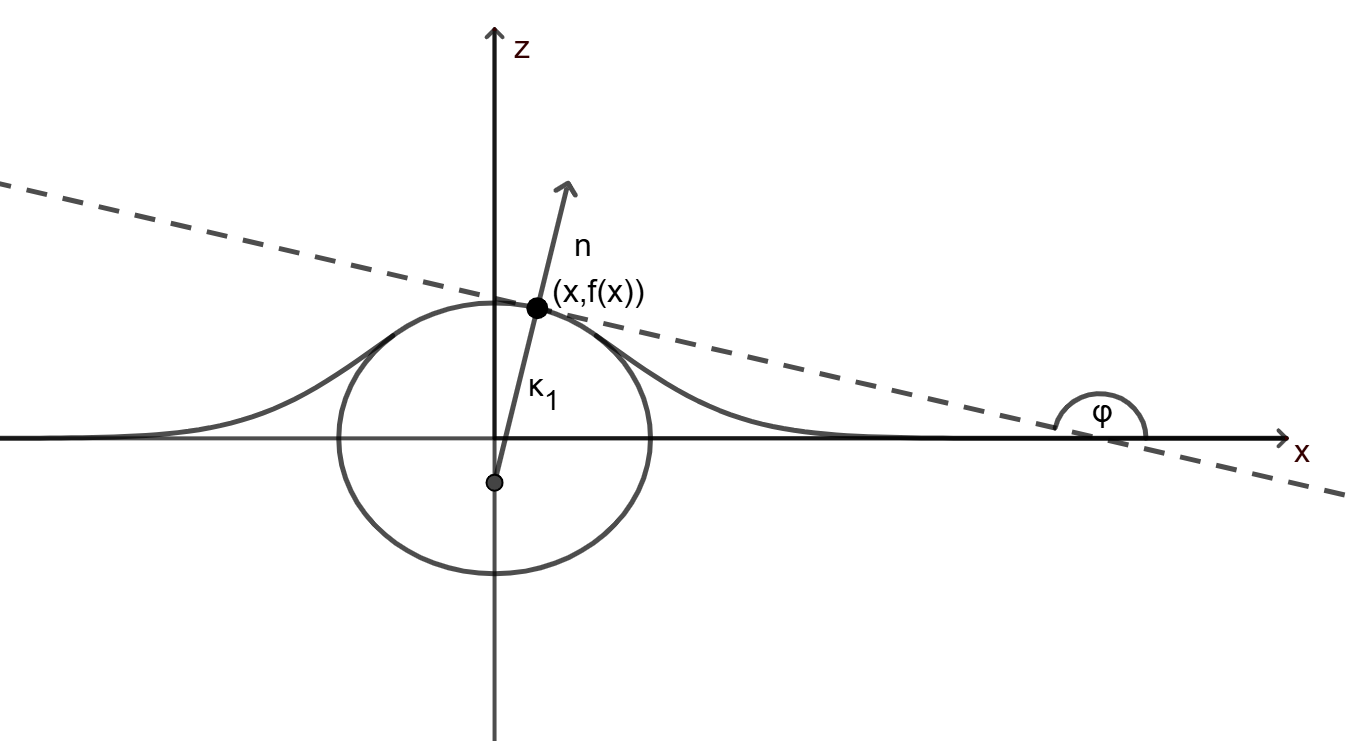
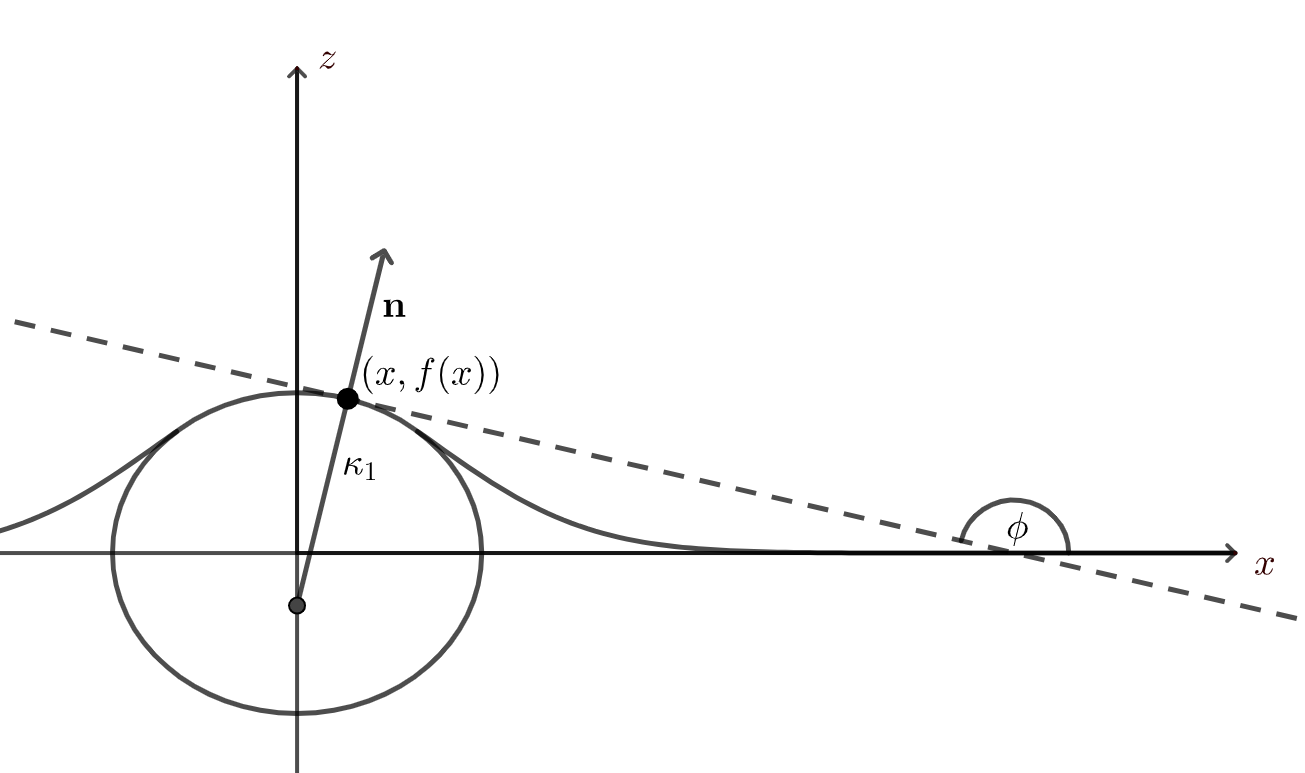
Updates from Overleaf

diff --git a/WriteUp/Initial conditions.tex b/WriteUp/Initial conditions.tex
@@ -11,17 +11,17 @@ We need to determine the initial shape of a bubble floating at a gas-liquid inte
 
 We are considering the case where the fluid is stationary, i.e. $\bf{u} = \bf{0}$, meaning on the boundaries we only need to consider the Young-Laplace equation:
 \begin{align}
-    \Delta p=-\gamma \nabla \cdot \hat n
+    \Delta p=-\gamma \nabla \cdot \hat n.
 \end{align}
 
 \begin{figure}
     \centering
     \includegraphics[width=0.7\linewidth]{WriteUp/images/bubble at surface.png}
-    \caption{A bubble floating at a surface. Portion (A) in green is the portion of the bubble which is submerged in the liquid. Portion (B) in purple is the spherical cap of the bubble, where the sphere has radius $R_0$. Portion (C) in red is the meniscus of the bubble. All three portions meet at a point.}
+    \caption{A bubble floating at a surface. Segment (A) in green is the Segment of the bubble which is submerged in the liquid. Segment (B) in purple is the spherical cap of the bubble, where the sphere has radius $R_0$. Segment (C) in red is the meniscus of the bubble. All three segments meet at a point.}
     \label{fig:2}
 \end{figure}
 
-We can divide the surface of a bubble into three regions: (A) the submerged portion of the interface, (B) the thin film over the top of the bubble separating the two gas regions, (C) the regions of the interface trailing away from the border of the thin film. We neglect the thickness of the film means we can ignore the weight of the film. Adding that the difference between the gas pressures inside and out of the bubble is uniform, the thin film can be treated as a spherical surface of radius $R_0$. The force balance equations at any point on these surfaces are,
+We can divide the surface of a bubble into three regions: (A) the submerged segment of the interface, (B) the thin film over the top of the bubble separating the two gas regions, (C) the regions of the interface trailing away from the border of the thin film. We neglect the thickness of the film meaning we can ignore the weight of the film. Adding that the difference between the gas pressures inside and out of the bubble is uniform, the thin film can be treated as a spherical surface of radius $R_0$. The force balance equations at any point on these surfaces are,
 \begin{align}\label{A_untransformed}
     (\rho-\rho')gz = \gamma \left( \frac{1}{R_1}+\frac{1}{R_2}-\frac{4}{R_0} \right)
 \end{align}
@@ -31,14 +31,12 @@ for region (A),
 \end{align}
 for region (B),
 \begin{align}\label{C_untransformed}
-    (\rho-\rho')gz = \gamma(\frac{1}{R_1}+\frac{1}{R_2})
+    (\rho-\rho')gz = \gamma \left(\frac{1}{R_1}+\frac{1}{R_2} \right)
 \end{align}
-for region (C) where $\gamma$ represents surface tension of the liquid, $g$ is acceleration due to gravity, $\rho$ and $\rho'$ are the densities of the liquid and gas respectively, $p$ and $p_0$ are the gas pressure inside and outside the bubble respectively, $g$ is acceleration due to gravity and $z$ is the height above the still gas liquid interface in the far field. $R_1$ and $R_2$ are the principle radii of curvature of the surface at a point.
-
-In order to calculate what $R_1$ and $R_2$ are we need to use some differential geometry. We assume the bubble can be described by a surfaces of revolution.
+for region (C) where $\gamma$ represents surface tension of the liquid, $g$ is acceleration due to gravity, $\rho$ and $\rho'$ are the densities of the liquid and gas respectively, $p$ and $p_0$ are the gas pressure inside and outside the bubble respectively, $g$ is acceleration due to gravity and $z$ is the height above the still gas liquid interface in the far field. $R_1$ and $R_2$ are the principle radii of curvature of the surface at a point. In order to calculate what $R_1$ and $R_2$ are we need to use some differential geometry. We assume the bubble can be described by a surfaces of revolution.
 Let $\Gamma$ be a curve that lies in the plane $(x,z)$ and let its equation have the equation $z=f(x)$. We then denote $\Phi$ as the surface defined by a rotation of $\Gamma$ around the $z$-axis or axis of rotation. This surface can then be written in the form:
 \begin{align}
-    z=f(\sqrt{x^2+y^2})=f(r) && r=\sqrt{x^2+y^2}
+    z=f(\sqrt{x^2+y^2})=f(r), && r=\sqrt{x^2+y^2}.
 \end{align}
 
 Then using the formulas derived in \cite{toponogov2006differential} we get
@@ -47,7 +45,7 @@ Then using the formulas derived in \cite{toponogov2006differential} we get
 \end{align}
 for the coefficients of the first fundamental form given by
 \begin{align}
-    I( \vec{ \boldsymbol\lambda}) = E(\lambda_1)^2 +2F\lambda_1 \lambda_2 + G(\lambda_2)^2
+    I( \vec{ \boldsymbol\lambda}) = E(\lambda_1)^2 +2F\lambda_1 \lambda_2 + G(\lambda_2)^2,
 \end{align}
 where $\lambda$ is some tangent vector. We can exploit the fact that since our surface is radially symmetric, we only need to find these geometric characteristics on some meridian of the surface, say y=0:
 \begin{align}
@@ -55,7 +53,7 @@ where $\lambda$ is some tangent vector. We can exploit the fact that since our s
 \end{align}
 Again using the formulas in \cite{toponogov2006differential}, we obtain
 \begin{align}
-    L&=\frac{f''}{\sqrt{1+(f')^2}},&M&=0&  N&=\frac{f'}{x\sqrt{1+(f')^2}}
+    L&=\frac{f''}{\sqrt{1+(f')^2}},&M&=0,&  N&=\frac{f'}{x\sqrt{1+(f')^2}},
 \end{align}
 for the coefficients of the second fundamental form given by
 \begin{align}
@@ -67,21 +65,21 @@ We then obtain the principle curvatures $\kappa_1$ and $\kappa_2$ satisfy:
 \end{align}
 Substituting in our coefficients for the first and second fundamental forms, solving for $\kappa$ and noting radius of curvature is one over the curvature we obtain:
 \begin{align}
-    \frac{1}{R_1} =\kappa_1= \frac{L}{E}=\frac{f''}{(1+(f')^2)^{\frac{3}{2}}}, && \frac{1}{R_2} = \kappa_2 = \frac{N}{G} = \frac{f'}{x \sqrt{1+(f')^2}}
+    \frac{1}{R_1} =\kappa_1= \frac{L}{E}=\frac{f''}{(1+(f')^2)^{\frac{3}{2}}}, && \frac{1}{R_2} = \kappa_2 = \frac{N}{G} = \frac{f'}{x \sqrt{1+(f')^2}}.
 \end{align}
 Notice that $R_1$ is exactly the radius of curvature of the meridian curve $\Gamma$
 We now introduce the variable $\phi$ defined to be the angle at which the tangent to $\Gamma$ makes with the x-axis. 
 \begin{figure}
     \centering
-    \includegraphics[width=0.55\linewidth]{WriteUp/images/tangent to bubble extra.png}
+    \includegraphics[width=0.75\linewidth]{WriteUp/images/tangent to bubble extra.png}
     \caption{A bubble floating at a surface with a tangent line at a point. This tangent intersects the $x$-axis with angle $\phi$}
     \label{fig:3}
 \end{figure}
 We can calculate $\phi$ using simple trigonometry to be $\phi=\arctan(f'(x))$. We then consider:
 \begin{align}
-    f'(x)=\tan \phi &= \frac{\sin\phi}{\cos\phi} \\
-    &=\sin\phi\sec\phi \\
-    &=\sin\phi \sqrt{1+\tan^2\phi}\\
+    f'(x)=\tan \phi &= \frac{\sin\phi}{\cos\phi} 
+    =\sin\phi\sec\phi 
+    =\sin\phi \sqrt{1+\tan^2\phi}\\
     \frac{f'(x)}{\sqrt{1+f'(x)^2}}&=\sin\phi\\
     \frac{d}{dx} \frac{f'(x)}{\sqrt{1+f'(x)^2}}&=\frac{d}{dx}\sin\phi \\
     \frac{f''(x)}{(1+f'(x)^2)^{\frac{3}{2}}}&=\frac{d(\sin\phi)}{dx} \\
@@ -98,8 +96,8 @@ We can write the curvature in terms of $z$:
 Now we can consider,
 \begin{align}
     f'(x)=\frac{1}{g'(f(x))}=\tan \phi &= \frac{\sin\phi}{\cos\phi} \\
-    g'(z)&=\cos\phi\csc\phi \\
-    &=\sin\phi \sqrt{1+\cot^2\phi}\\
+    g'(z)&=\cos\phi\csc\phi
+    =\sin\phi \sqrt{1+\cot^2\phi}\\
     \frac{g'(z)}{\sqrt{1+g'(z)^2}}&=\cos\phi\\
     \frac{d}{dz} \frac{f'(z)}{\sqrt{1+f'(z)^2}}&=\frac{d}{dz}\cos\phi \\
     \frac{g''(z)}{(1+g'(z)^2)^{\frac{3}{2}}}&=\frac{d(\cos\phi)}{dx} \\
@@ -126,7 +124,7 @@ Combining these all together we obtain
 \end{align}
 \begin{figure}
     \centering
-    \includegraphics[width=0.6\linewidth]{WriteUp/images/angles and trig.png}
+    \includegraphics[width=0.75\linewidth]{WriteUp/images/angles and trig.png}
     \caption{A bubble floating at a surface. Both a tangent line and a line normal to the curve are shown at a point. The distance along the normal between the point and the $z$-axis is given by $R$}
     \label{fig:4}
 \end{figure}
@@ -142,19 +140,15 @@ We then consider two new transformed coordinates:
 \begin{align}
     \bar{z}_1 = \bar{z}+\bar{h}, && \bar{z}_2=\bar{z}+\bar{l}
 \end{align}
-where $\bar{h}$ and $\bar{l}$ are chosen such that $\bar{z}_1$ has its origin at the deepest point of the bubble for portion (A) and $\bar{z}_2$ has its origin at the centre of the sphere for portion (B). For portion (A), instead of \ref{A_untransformed}, we obtain
+where $\bar{h}$ and $\bar{l}$ are chosen such that $\bar{z}_1$ has its origin at the deepest point of the bubble for segment (A) and $\bar{z}_2$ has its origin at the centre of the sphere for segment (B). For segment (A), instead of \ref{A_untransformed}, we obtain
 \begin{align}\label{less than}
-\begin{rcases}   
-    \frac{d\bar{z}_1}{d\bar{x}} &= \tan \phi \\
+    \frac{d\bar{z}_1}{d\bar{x}} &= \tan \phi &
     \frac{d(\sin\phi)}{d\bar{x}} &= 2\bar{z}_1 - \frac{\sin\phi}{\bar{x}} + \theta
-\end{rcases} 
 \end{align}
 or,
 \begin{align}\label{greater than}
-\begin{rcases}
-    \frac{d\bar{x}}{d\bar{z}_1} &= \cot \phi \\
+    \frac{d\bar{x}}{d\bar{z}_1} &= \cot \phi & 
     \frac{d(\cos\phi)}{d\bar{z}_1} &= -2\bar{z}_1 + \frac{\sin\phi}{\bar{x}} - \theta
-\end{rcases}
 \end{align}
 where,
 \begin{align}
@@ -162,30 +156,30 @@ where,
 \end{align}
 and the equations \ref{less than} and \ref{greater than} are used for $\tan\phi <1$ and $\tan\phi >1$ respectively. Similarly for portion (C), equation \ref{C_untransformed} becomes,
 \begin{align}\label{C_transformed}
-\begin{rcases}   
-    \frac{d\bar{z}}{d\bar{x}} &= \tan \phi \\
+    \frac{d\bar{z}}{d\bar{x}} &= \tan \phi &
     \frac{d(\sin\phi)}{d\bar{x}} &= 2\bar{z} - \frac{\sin\phi}{\bar{x}}
-\end{rcases} 
 \end{align}
-We can notice that equation \ref{less than} and \ref{greater than} are essentially the same of equation \ref{C_transformed} except for the additional $\theta$ term. Finally equation \ref{B_untransformed} for portion (B) becomes
+We can notice that equation \ref{less than} and \ref{greater than} are essentially the same of equation \ref{C_transformed} except for the additional $\theta$ term. Finally equation \ref{B_untransformed} for segment (B) becomes
 \begin{align}\label{Eq_B}
     \bar{z}_2 = \sqrt{ \bar{R}_0^2+\bar{x}^2}
 \end{align}
 We are now ready to start solving for the initial condition.
 
-\subsection{Solving Portion (A)}
+\subsection{Solving for Segment (A)}
 
-We have derived the governing equations for each of the three portions of the bubble and now can start to solve them. We already have an explicit expression for portion (B), although finding analytic solutions to \ref{less than}, \ref{greater than} and \ref{C_transformed} is too difficult. Instead we can find numerical solutions using a Runge-Kutta method.
+We have derived the governing equations for each of the three segments of the bubble and now can start to solve them. We already have an explicit expression for segment (B), although finding analytic solutions to \ref{less than}, \ref{greater than} and \ref{C_transformed} is too difficult. Instead we can find numerical solutions using a Runge-Kutta method.
 
 First we consider the equations \ref{less than} and \ref{greater than}. We use the initial conditions $\bar{x}=\bar{z}_1=0$ at $\theta=0$ as we assume that at the bottom of the bubble is flat, i.e.
 \begin{align}
-    \frac{d\bar{z}_1}{d\bar{x}}&=0\\
+    \frac{d\bar{z}_1}{d\bar{x}}&=0&
     \Leftrightarrow \:\:\:\:\:\theta&=0.
 \end{align}
 The relations
 \begin{align}
     \frac{1}{\bar{R}_1}=\frac{\sin\phi}{\bar{x}}=\frac{1}{\bar{R}_2}=\frac{d(\sin\phi)}{d\bar{x}}=\frac{\theta}{2}
 \end{align}
+were also used as in \cite{toba1959drop}
+
 In order to solve this ODE, we used the $\texttt{solve\_ivp}$ function from SciPy \cite{2020SciPy-NMeth}. Once again we need to do a little more work before we're able to use this function. First, consider the vector $\bf{z}$ defined by
 \begin{align}
     \bf{z} = \begin{bmatrix}
@@ -200,11 +194,11 @@ where $u=\sin \phi$. Transforming our ODE we obtain
            -2\bar{z}_1 - \frac{u}{\bar{x}}+\theta \\
          \end{bmatrix}
 \end{align}
-which we can then solve for $\phi \in [0,\pi]$.
+which we can then solve for $\phi \in [0,\pi]$. Solutions to this ODE are shown in figure \ref{fig:5} in which we see a finite-time singularities form.
 \begin{figure}
     \centering
     \includegraphics[width=0.85\linewidth]{WriteUp/images/bottom curve.png}
-    \caption{Solutions to \ref{less than} for various $\theta$ values}
+    \caption{Graphs of $\tilde{f}_1$ which solves equation \ref{less than} for $\theta=1,2,3,5,10,15,20$ where $\theta = 4/\bar{R}_0 - 2\bar{h}$ is the constant difference between the radius of curvature of the cap,$\bar{R}_0$, (section B) and the depth of the bubble, $\bar{h}$}
     \label{fig:5}
 \end{figure}
 As $\phi \rightarrow \pi/2$, $\frac{d\bar{z}_1}{dx} \rightarrow \infty$. This means our solver cannot compute the solution for $\phi> \pi/2$. What we do instead, is we can use the computed values for $\bar{z}_1$ and $\bar{x}$ at $\phi=\pi/2$ as initial conditions for equations \ref{greater than}. In a similar way to before, we can transform the equations \ref{greater than} into
@@ -223,28 +217,29 @@ where $ \bf{x} = \begin{bmatrix}
         \tilde{f_1}(\bar{x},\theta) \;\;\;\;\; \text{for } \phi<\pi/2
     \end{cases}
 \end{align}
-
+In figure \ref{fig:6} we once again see a singularity form as $\phi \rightarrow \pi$. Although not exact, the gap between the $y$-axis and where the solutions ends gives an indication on what sort of shape the spherical cap should be. This is helpful later when we need to make an initial guess for another solver.
 \begin{figure}
     \centering
     \includegraphics[width=0.65\linewidth]{WriteUp/images/top and bottom curve.png}
-    \caption{Solutions to \ref{less than} and \ref{greater than} for various $\theta$ values}
+    \caption{Graphs of $F$ which solves equation \ref{less than} and \ref{greater than} for $\theta=1,2,3,5,10,15,20$ where $\theta = 4/\bar{R}_0 - 2\bar{h}$ is the constant difference between the radius of curvature of the cap,$\bar{R}_0$, (section B) and the depth of the bubble, $\bar{h}$.}
     \label{fig:6}
 \end{figure}
 
-\subsection{Solving Portion (C)}
+\subsection{Solving for Segment (C)}
 
-The equations generating portion (C) are very similar to portion (A), unfortunately, the boundary conditions make it much harder to solve. Portion (C) is the meniscus of the bubble and we would like it to flatten out at infinity. This means we have the boundary conditions $\phi \rightarrow 0$, $\bar{z} \rightarrow 0$ as $x \rightarrow \infty$. These conditions are unable to be implemented numerically, instead we can consider initial conditions close to zero, i.e. $\bar{z}=\phi=0.00001$ at $\bar{x}=\bar{x}_0$. We can then denote $\bar{z}=f_2(\bar{x},\bar{x}_0)$ as a solution to \ref{C_transformed}
+The equations generating segment (C) are very similar to segment (A), unfortunately, the boundary conditions make it much harder to solve. Segment (C) is the meniscus of the bubble and we would like it to flatten out at infinity. This means we have the boundary conditions $\phi \rightarrow 0$, $\bar{z} \rightarrow 0$ as $x \rightarrow \infty$. These conditions are unable to be implemented numerically, instead we can consider initial conditions close to zero, i.e. $\bar{z}=\phi=0.00001$ at $\bar{x}=\bar{x}_0$. We can then denote $\bar{z}=f_2(\bar{x},\bar{x}_0)$ as a solution to \ref{C_transformed}.
 
+We once again see singularities forming in figure \ref{fig:7}. For the $\theta$ values for which we calculated solutions for segment A earlier, we want to consider $\bar{x}_0$ between around 4 and 8. We see from the figure that larger values of $\bar{x}_0$ are undefined in the domain of the solution to segment A. This allows us to narrow the search for the correct $\bar{x}_0$ to match with a given $\theta$.
 \begin{figure}
     \centering
     \includegraphics[width=0.85\linewidth]{WriteUp/images/menisc.png}
-    \caption{Solutions to \ref{C_transformed} for various $\bar{x}_0$ values}
+    \caption{Graphs of $f_2$ which solves equation \ref{C_transformed} for $\bar{x}_0=4,4.2,4.4,4.7,5,5.5,6$ where $\bar{x}_0$ is the initial $x$ coordinate we use for the Runge-Kutta method. These lines correspond to the meniscus formed due to the droplet resting above the surface level.}
     \label{fig:7}
 \end{figure}
 
-\subsection{Combining all the portions}
+\subsection{Matching solutions for the Segments}
 
-We are now able to calculate an explicit description of the interface for each individual section, but we still have many unknown variables we need to solve for. We want each portion to meet at the same point and match derivatives at that point. applying these constraints we get the following system of equations:
+We are now able to calculate an explicit description of the interface for each individual section, but we still have many unknown variables we need to solve for. We want each section to meet at the same point and match derivatives at that point. applying these constraints we get the following system of equations:
 \begin{align}
     \bar{z}&=F(\bar{x},\theta,\phi) - \bar{h} \\
     \bar{z}&=f_2(\bar{x},\bar{x}_0) \\
@@ -280,7 +275,7 @@ We are now able to start computing solutions. In order to find the roots of \ref
 \begin{figure}
     \centering
     \includegraphics[width=0.85\linewidth]{WriteUp/images/combined theta=1.6.png}
-    \caption{Solutions to full system for $\theta=1.6$. We can see each portion meets at the point $(\bar{x},\bar{z})$ and that the derivatives match with one another}
+    \caption{Solutions to full system for $\theta=1.6$. We can see each section meets at the point $(\bar{x},\bar{z})$ and that the derivatives match with one another}
     \label{fig:8}
 \end{figure}
 

diff --git a/WriteUp/Introduction.tex b/WriteUp/Introduction.tex
@@ -1,22 +1,39 @@
 \section{Introduction}
 
-Bubbles within liquids are incredibly common, occurring in both a wide spectrum of natural and industrial processes \cite{Volcano,bird2010daughter,deike2022mass,dollet2019bubble,feng2014nanoemulsions,oratis2020new,veron2015ocean,WINE}. These occurrences can range from water and carbon-dioxide bubbles in magma providing driving forces for an eruption \cite{Volcano} to carbon-dioxide bubbles in champagne enhancing the evaporation of volatile organic compounds dispersed in the liquid phase. When a bubble rises to the surface of a liquid, it may burst, scattering many droplets. These droplets are an important process of transport exchange across the liquid gas interface\cite{notdoneyet}, they are considered the main source of sea spray aerosols and impact air pollution[] as well as the transmission of infectious diseases[]. Bubbles formed due to the breaking of waves contribute to the transfer of heat, mass and other contaminants between the oceans and the atmosphere. The efficiency of this transfer is governed by the initial size and speed of the ejected drops.
+Bubbles within liquids are incredibly common, occurring in both a wide spectrum of natural and industrial processes \cite{veron2015ocean}. These occurrences can range from water and carbon-dioxide bubbles in magma providing driving forces for an eruption \cite{Volcano} to carbon-dioxide bubbles in champagne enhancing the evaporation of volatile organic compounds dispersed in the liquid phase \cite{WINE}. When a bubble rises to the surface of a liquid, it may burst, scattering many droplets. These droplets are an important process of transport exchange across the liquid gas interface, they are considered the main source of sea spray aerosols \cite{veron2015ocean} and impact air pollution \cite{murphy2016depth} as well as the transmission of infectious diseases \cite{ji2022water,bourouiba2021fluid}. Bubbles formed due to the breaking of waves contribute to the transfer of heat, mass and other contaminants between the oceans and the atmosphere \cite{coantic1980mass}. The formation of ocean spray by bursting bubbles in coastal areas during red tides of harmful algae can bring pathogens into the atmosphere as aerosols causing heath issues \cite{walls2014moving}. The efficiency of this transfer is governed by the initial size and speed of the ejected drops. \cite{coantic1980mass,andreas1995spray}
 
-There are two Phenomena that occur when a bubble bursts that produce aerosols, the first being when the thin film separating the bubble from the atmosphere is ruptured. The atomisation of the film can produce several hundred droplets of around a micrometer in diameter. Due to the length scales of the rupture being order O($100$nm), we are unable to describe this problem with continuum mechanics. In fact, van der Waals forces or electrostatic repulsion must be considered, both of which are long-range intermolecular forces.
+\begin{figure}[H]
+    \centering
+    \includegraphics[width=0.8\linewidth]{WriteUp/images/Andreas pic.png}
+    \caption{Origin of the various kinds of sea spray droplet. This report focuses on Jet drops Adapted from figure 1 on page 5 of Andreas \textit{et al.} \cite{andreas1995spray} }
+    \label{fig:0}
+\end{figure}
+
+There are two phenomena that occur when a bubble bursts that produce aerosols, the first being when the thin film separating the bubble from the atmosphere is ruptured. The atomisation of the film can produce several hundred droplets of around a micrometer in diameter. Due to the length scales of the rupture being order O($100$)nm \cite{boulton1993gas}, we are unable to describe this problem with continuum mechanics. In fact, van der Waals forces or electrostatic repulsion must be considered, both of which are long-range intermolecular forces \cite{boulton1993gas}. 
 
 After the film rupture, the remaining cavity collapses causing a jet to form. This jet eventually breaches into one or more droplets. The key difference between these droplets and the droplets formed when the film ruptures is that they are much larger, order O($100 \mu$m) for a typical bubble with a diameter of a millimeter. They are also ejected vertically with a typical ejection velecity of order O($1$ms$^{-1}$).
 \begin{figure}[H]
     \centering
     \includegraphics[width=0.75\linewidth]{WriteUp/images/droplet release 3D.png}
-    \caption{An image of jet formation due to a burst bubble}
+    \caption{An image of jet formation due to a burst bubble.}
     \label{fig:1}
 \end{figure}
 
 Since the pioneering study of bursting bubbles by Woodcock \textit{et al.} \cite{woodcock1953giant}, numerous studies have been made documenting jet drop properties. The first comprehensive study using numerical simulations based on a free-surface formulation of the Navier-Stokes equations was done in 2002 by Duchemin \textit{et al.} \cite{duchemin2002jet
 }.
 
-In this paper they used a volume-of-fluid (VOF) type method to investigate quantities such as the jet velocity, maximum pressure on the axis of symmetry and radius of the first ejected drop. They compared their numerical data with experimental data published by MacIntyre \cite{macintyre1972flow} and found the overall agreement satisfactory. The method was able to resolve small capillary wave and still scuratly predict large scale features of the dynamics, the pressure and final droplet radius.
+In this paper they used a volume-of-fluid (VOF) type method to investigate quantities such as the jet velocity, maximum pressure on the axis of symmetry and radius of the first ejected drop. They compared their numerical data with experimental data published by MacIntyre \cite{macintyre1972flow} and found the overall agreement satisfactory. The method was able to resolve small capillary wave and still accurately predict large scale features of the dynamics, the pressure and final droplet radius.
 
-Another aim of this paper was to investigate bubble entrapment. This is when a new bubble is formed underneath the collapsing cavity of the old bubble. Two entrapment regions were found, the first for $576<R/R_v<2016$ and the second between $57\:600<R/R_v<288\:000$ where $R$ is the radius of the bubble and $R_v=\rho\nu^2/\sigma$ is the viscous-capillary length with $\rho$, $\nu$ and $\sigma$ being liquid density, kinematic viscosity and surface tension respectively. Other regions of entrapment at higher values of $R/R_v$ was speculated but was said to be difficult to observe numerically.
+Another aim of this paper was to investigate bubble entrapment. This is when a new bubble is formed underneath the collapsing cavity of the old bubble. Two entrapment regions were found, the first for $576<R/R_v<2016$ and the second between $57\:600<R/R_v<288\:000$ where $R$ is the radius of the bubble and $R_v=\rho\nu^2/\gamma$ is the viscous-capillary length with $\rho$, $\nu$ and $\gamma$ being liquid density, kinematic viscosity and surface tension respectively. Other regions of entrapment at higher values of $R/R_v$ was speculated but was said to be difficult to observe numerically.
 
-Duchemin \textit{et al.} also showed that the jets are produced by the self-similar collapse of a cavity created by capillary waves.
+Duchemin \textit{et al.} also showed that the jets are produced by the self-similar collapse of a cavity created by capillary waves. When a bubble cavity is collapsing, small waves form on the cavity interface moving towards the centre of the bubble. due to the symmetrical nature of the phenomenon these waves focus at the centre of the bubble causing a jet to form. These dynamics can be described by a self-similar dynamic based on the balance of inertial and capillary forces \cite{brenner2000jets} and leads to a singularity where the velocity diverges although in reality it is regularised by viscous and capillary effects. Viscosity was shown to play a critical role in the formation of this singularity. Counter-intuitively, the fastest jets are not obtained for a vanishing viscosity, rather they occur in a small range of optimal viscosity. For a Laplace number $\text{La}=\gamma R\rho/\mu^2$ of around $1000$ where $\mu$ is dynamic viscosity, approaches a finite-time singularity for both pressure and velocity. \cite{brenner2000jets} Earlier attempts of numerical simulation used boundary integral methods for inviscid fluids and therefore missed this phenomenon \cite{oguz1993dynamics}.
+
+However, the paper by Duchemin \textit{et al.} was not entirely comprehensive. Many aspects of busting bubbles were not considers, in particular gravity. This lead to a simplified initial condition of a spherical bubble lying just beneath the surface. A hole was then put into the bubble and the sharp edges left over were smoothed to try and prevent numerical singularities. In addition, due to the limited availability fo experimental data at the time, comparisons between the numerical simulations and experimental data was limited and qualitative.
+
+Deike \textit{et al.} tried to rectify these shortcomings in an article where they aimed to verify experimental and numerical results were indeed quantitatively consistent and obtain a complete quantitative description of how the jet velocity depends on both viscosity and gravity and attempt to separate these two effects \cite{deike2018dynamics}. The authors showed that due to the transient nature of the jet formation process, trying to define the jet velocity is incredibly difficult. as a result, throughout the literature there were numerous definitions leading to conflicting reported velocities. They defined the jet velocity as the stationary velocity observed before drop ejection which they found was consistent with most of the experimental measurements \cite{spiel1995births}. They discussed scaling laws involving the Weber number $\text{We}=\rho v^2R/\gamma$ where $v$ is the velocity of the jet, the capillary number $\text{Ca}=\mu v/\gamma$, the Laplace number and the Bond number. They found $\text{We} \propto \text{Bo}^{\beta}$ and $\text{Ca} \propto \text{Bo}^{\beta}$ where $\beta$ depends on the Bond and Laplace numbers. As gravity was now being considered, a more complicated initial condition was used and through direct numerical simulation they were able to separate the roll of gravity (through the Bond number) and viscosity (through the Laplace number). A universal formula was presented linking the jet capillary number to the Bond and Laplace number and found optimal Laplace numbers depending on the Bond number and that the highest velocity is reached for vanishing Bond numbers. When calculating results with $\text{Bo}=0$ they acquired results compatible with what Duchemin \textit{et al.} had done.
+
+Work has also been done into bursting bubble problems involving a third phase like oil. Yang \textit{et al.} \cite{yang2023enhanced} looked into the case where oil coated the inside of the bubble. They found the air-oil-water interface offered a distinct meachanism to smooth initial capillary waves during cavity collapse. This leads to a more efficient focusing of the larger waves, allowing singular jets to form over a larger parameter space and jet droplets to form on a much smaller scale.
+
+In this report we investigate the effect of the initial condition on parameters such as jet velocity and time of ejection. Calculating the initial condition is difficult and time consuming, if we able able to determin a region in which it is sufficient to use a simplified initial condition we would be able to accelerate further research by reducing simulation time.
+
+The report is structured as follows. In section 2 we give an overview of the scaling laws present in the problem and how we are able to derive them. In section 3 we calculate the initial shape of the bubble before bursting. This is done by first deriving the equations governing the system, transforming them into equations that are able to be solved numerically and finally by implementing a numerical solution in Python. In section 4 we give details on the how we compute the bubble interface evolving in time and compare results obtained by using the initial conditions we calculate in section 3 and the simplified initial conditions as used by Duchemin \textit{et al.} \cite{duchemin2002jet}. In section 5 we conclude with a summary of the effectiveness of the simplified initial condition and in which directions the problem of bursting bubble could be taken.

diff --git a/WriteUp/Scaling laws.tex b/WriteUp/Scaling laws.tex
@@ -28,7 +28,7 @@ and that the air above the fluid is considered to be of zero density. near the s
 \begin{gather}\label{scaling euqations 1}
     \Delta\phi=0,\\ \label{scaling euqations 2}
     \frac{\partial h}{\partial t}+\frac{\partial h}{\partial r}\frac{\partial \phi}{\partial r}=\frac{\partial \phi}{\partial z},\\ \label{scaling euqations 3}
-    \frac{\partial \phi}{\partial t} + \frac{1}{2}(\nabla \phi)^2 + \frac{\sigma}{\rho}(\frac{1}{R_1}+\frac{1}{R_2}),
+    \frac{\partial \phi}{\partial t} + \frac{1}{2}(\nabla \phi)^2 + \frac{\sigma}{\rho}\left( \frac{1}{R_1}+\frac{1}{R_2}\right),
 \end{gather}
 where $\phi$ is the velocity potential ($\textbf{u}=\nabla \phi$), $z$ is the axial coordinate ($z=h$ at the free surface), $r$ is the radial distance, $\sigma$ and $\rho$ are the surface tension and density of the fluid respectively and $R_1$ and $R_2$ are the principal radii of curvature of the surface. The first equations represents the incompressibility of the fluid and the second equation represents the kinematic boundary condition on the fluid surface and the last equation is the Bernoulli equation at the fluid surface, all in cylindrical coordinates.
 
